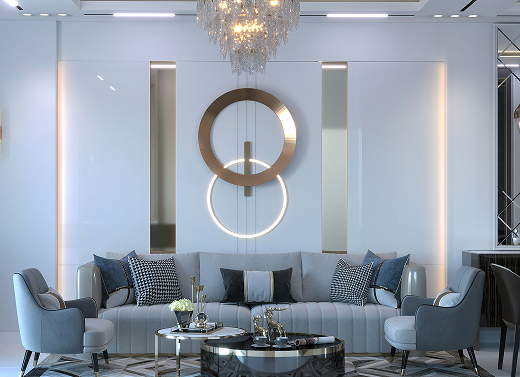
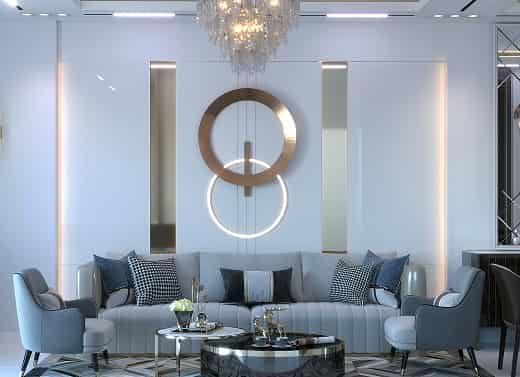
Do 100% on Google page speed

diff --git a/index.html b/index.html
@@ -19,12 +19,7 @@
             href="https://fonts.googleapis.com/css2?family=Montserrat:wght@600&family=Roboto:wght@100..900&display=swap"
             rel="stylesheet"
         />
-        <link
-            rel="stylesheet"
-            href="https://cdn.jsdelivr.net/npm/swiper@12/swiper-bundle.min.css"
-            media="print"
-            onload="this.media = 'all'"
-        />
+        <link rel="stylesheet" href="https://cdn.jsdelivr.net/npm/swiper@12/swiper-bundle.min.css" />
         <link rel="stylesheet" href="css/reset.css" />
         <link rel="stylesheet" href="css/style.css" />
         <script type="application/ld+json">
